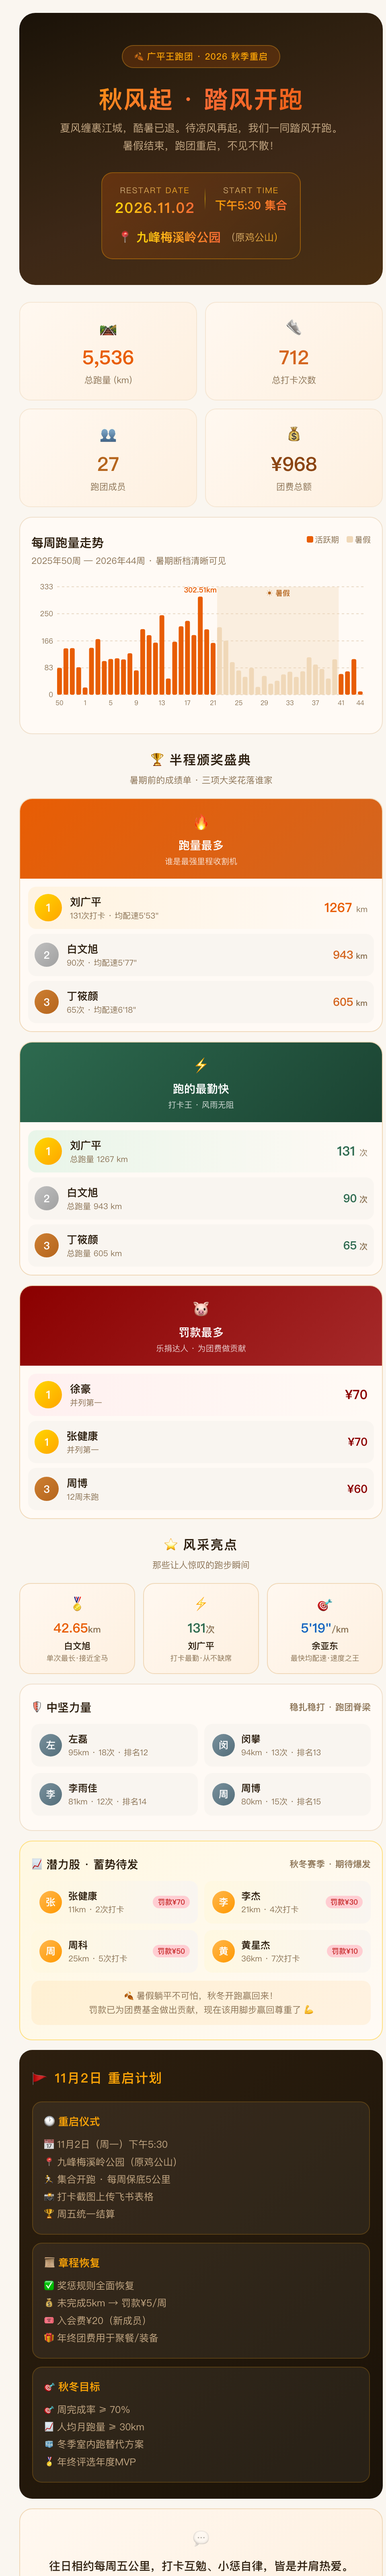
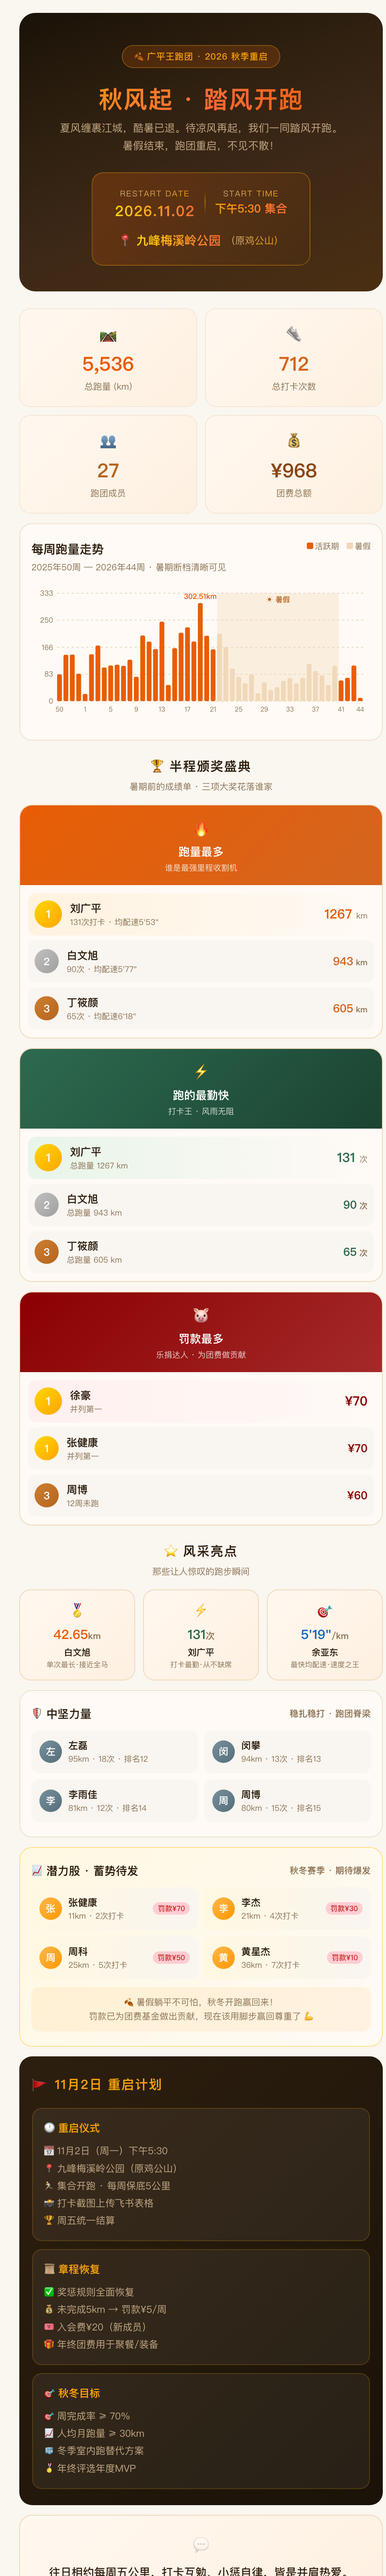
Hero信息卡加大内边距padding 18px 28px

diff --git a/index.html b/index.html
@@ -15,7 +15,7 @@ body{font-family:-apple-system,'PingFang SC','Noto Sans SC','Segoe UI',sans-seri
 .hero-badge{display:inline-block;padding:5px 14px;border-radius:999px;background:rgba(232,93,4,0.2);border:1px solid rgba(255,182,39,0.3);margin-bottom:20px;font-size:11px;letter-spacing:0.5px;color:#FAA307;font-weight:500;}
 .hero h1{font-size:30px;font-weight:700;margin:0 0 6px;letter-spacing:1px;line-height:1.25;background:linear-gradient(135deg,#FAA307,#FF6B35,#E85D04);-webkit-background-clip:text;-webkit-text-fill-color:transparent;background-clip:text;color:#FAA307;}
 .hero p{font-size:13px;color:#c4a884;margin:0 0 22px;line-height:1.7;}
-.hero-info{display:table;padding:14px 16px;border-radius:14px;background:linear-gradient(135deg,rgba(232,93,4,0.25),rgba(74,47,18,0.4));border:1px solid rgba(250,163,7,0.35);text-align:center;overflow:hidden;margin:0 auto;}
+.hero-info{display:table;padding:18px 28px;border-radius:14px;background:linear-gradient(135deg,rgba(232,93,4,0.25),rgba(74,47,18,0.4));border:1px solid rgba(250,163,7,0.35);text-align:center;overflow:hidden;margin:0 auto;}
 .hero-info-row{display:flex;display:-webkit-flex;align-items:flex-start;-webkit-align-items:flex-start;justify-content:center;-webkit-justify-content:center;gap:12px;flex-wrap:wrap;-webkit-flex-wrap:wrap;}
 .hero-info-item{text-align:center;}
 .hero-date-label{font-size:10px;letter-spacing:1px;white-space:nowrap;background:linear-gradient(90deg,#c4a884,#FAA307);-webkit-background-clip:text;-webkit-text-fill-color:transparent;background-clip:text;color:#c4a884;}

diff --git a/广平王跑团-秋季重启画报.html b/广平王跑团-秋季重启画报.html
@@ -15,7 +15,7 @@ body{font-family:-apple-system,'PingFang SC','Noto Sans SC','Segoe UI',sans-seri
 .hero-badge{display:inline-block;padding:5px 14px;border-radius:999px;background:rgba(232,93,4,0.2);border:1px solid rgba(255,182,39,0.3);margin-bottom:20px;font-size:11px;letter-spacing:0.5px;color:#FAA307;font-weight:500;}
 .hero h1{font-size:30px;font-weight:700;margin:0 0 6px;letter-spacing:1px;line-height:1.25;background:linear-gradient(135deg,#FAA307,#FF6B35,#E85D04);-webkit-background-clip:text;-webkit-text-fill-color:transparent;background-clip:text;color:#FAA307;}
 .hero p{font-size:13px;color:#c4a884;margin:0 0 22px;line-height:1.7;}
-.hero-info{display:table;padding:14px 16px;border-radius:14px;background:linear-gradient(135deg,rgba(232,93,4,0.25),rgba(74,47,18,0.4));border:1px solid rgba(250,163,7,0.35);text-align:center;overflow:hidden;margin:0 auto;}
+.hero-info{display:table;padding:18px 28px;border-radius:14px;background:linear-gradient(135deg,rgba(232,93,4,0.25),rgba(74,47,18,0.4));border:1px solid rgba(250,163,7,0.35);text-align:center;overflow:hidden;margin:0 auto;}
 .hero-info-row{display:flex;display:-webkit-flex;align-items:flex-start;-webkit-align-items:flex-start;justify-content:center;-webkit-justify-content:center;gap:12px;flex-wrap:wrap;-webkit-flex-wrap:wrap;}
 .hero-info-item{text-align:center;}
 .hero-date-label{font-size:10px;letter-spacing:1px;white-space:nowrap;background:linear-gradient(90deg,#c4a884,#FAA307);-webkit-background-clip:text;-webkit-text-fill-color:transparent;background-clip:text;color:#c4a884;}
